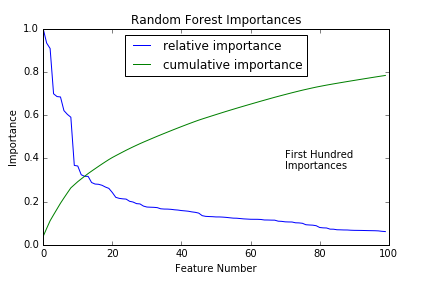
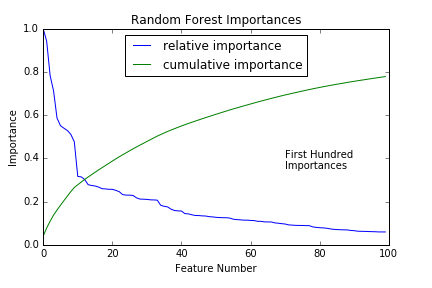
add oob score

diff --git a/read_clean_data.py b/read_clean_data.py
@@ -173,7 +173,9 @@ def rfFitScore(clf, dftrain, dftrain_y, dftest, dftest_y):
     new_y = clfit.predict( dftest )  # returns predicted Y
     
     test_score = clfit.score( dftest, dftest_y['Y'] )
-    print("test score:", test_score, clfit.oob_score_)    
+    print("test score:", test_score)  # clfit.oob_score_  
+    if (clf.oob_score):
+        print("oob score", clfit.oob_score_)
     
     # calculate test score by other means
     print("test predict True %.3f percent, %d out of %d" % \
@@ -201,7 +203,10 @@ def rfFitScore(clf, dftrain, dftrain_y, dftest, dftest_y):
     print("precision", precision, "\nrecall", recall, \
         "\nfbeta", fbeta, "\nsupport", support)
     
-    return test_score, imp
+    if (clf.oob_score):
+        return test_score, imp, clfit.oob_score_
+    else:
+        return test_score, imp
 
 def getImportantColumns(dftraincol, imp):
     '''sort column names by RandomForest importance
@@ -320,98 +325,98 @@ if __name__ == '__main__':
     plotImportances(impcol, plotdir, "v100")
     # sccore 0.9068 0.9099 0.9094
     
-#    print("Validation n=100 auto")  # auto is sqrt for classifier
-#    clf = RandomForestClassifier(n_estimators=100, max_features='auto')
-#    score, imp = rfFitScore(clf, dftrain, dftrain_y, dfvalid, dfvalid_y)
-#    impcol = getImportantColumns(dftrain.columns, imp)
-#    print("n=100 auto fit: top ten important columns:\n", impcol[:10])
-#    plotImportances(impcol, plotdir, "v100auto")
-#    # score 0.9051 0.9112 0.9077 0.9079
-#    
-#    print("Validation n=100 sqrt")  # sqrt(478) = 21.9
-#    clf = RandomForestClassifier(n_estimators=100, max_features='sqrt')
-#    score, imp = rfFitScore(clf, dftrain, dftrain_y, dfvalid, dfvalid_y)
-#    impcol = getImportantColumns(dftrain.columns, imp)
-#    print("n=100 sqrt fit: top ten important columns:\n", impcol[:10])
-#    plotImportances(impcol, plotdir, "v100sqrt")
-#    # score 0.9081 0.9051 0.9143 0.9147
-#    
-#    print("Validation n=100 log2")  # log2(478) = 8.9
-#    clf = RandomForestClassifier(n_estimators=100, max_features='log2')
-#    score, imp = rfFitScore(clf, dftrain, dftrain_y, dfvalid, dfvalid_y)
-#    impcol = getImportantColumns(dftrain.columns, imp)
-#    print("n=100 log2 fit: top ten important columns:\n", impcol[:10])
-#    plotImportances(impcol, plotdir, "v100log")  
-#    # score 0.9265 0.9300 0.9283 0.9278
-#    
-#    print("Validation n=100 9")
-#    clf = RandomForestClassifier(n_estimators=100, max_features=9)
-#    score, imp = rfFitScore(clf, dftrain, dftrain_y, dfvalid, dfvalid_y)
-#    impcol = getImportantColumns(dftrain.columns, imp)
-#    print("n=100 log2 fit: top ten important columns:\n", impcol[:10])
-#    plotImportances(impcol, plotdir, "v100_9")  
-#    # score 0.9274 0.9287 0.9309
-#    
-#    print("Validation n=100 22")
-#    clf = RandomForestClassifier(n_estimators=100, max_features=22)
-#    score, imp = rfFitScore(clf, dftrain, dftrain_y, dfvalid, dfvalid_y)
-#    impcol = getImportantColumns(dftrain.columns, imp)
-#    print("n=100 22 fit: top ten important columns:\n", impcol[:10])
-#    plotImportances(impcol, plotdir, "v100_22")  
-#    # score 0.9121 0.9059 0.9068
-#    
-#    print("Validation n=100 44")
-#    clf = RandomForestClassifier(n_estimators=100, max_features=44)
-#    score, imp = rfFitScore(clf, dftrain, dftrain_y, dfvalid, dfvalid_y)
-#    impcol = getImportantColumns(dftrain.columns, imp)
-#    print("n=100 44 fit: top ten important columns:\n", impcol[:10])
-#    plotImportances(impcol, plotdir, "v100_44")
-#    # score 0.9042 0.9029 0.9051
-#    
-#    print("Validation n=100 100")
-#    clf = RandomForestClassifier(n_estimators=100, max_features=100)
-#    score, imp = rfFitScore(clf, dftrain, dftrain_y, dfvalid, dfvalid_y)
-#    impcol = getImportantColumns(dftrain.columns, imp)
-#    print("n=100 100xx fit: top ten important columns:\n", impcol[:10])
-#    plotImportances(impcol, plotdir, "v100_xx")
-#    # score 0.8941 0.8976
-#    
-#    print("Validation n=100 15")
-#    clf = RandomForestClassifier(n_estimators=100, max_features=15)
-#    score, imp = rfFitScore(clf, dftrain, dftrain_y, dfvalid, dfvalid_y)
-#    impcol = getImportantColumns(dftrain.columns, imp)
-#    print("n=100 15 fit: top ten important columns:\n", impcol[:10])
-#    plotImportances(impcol, plotdir, "v100_15")
-#    # score 0.9164 0.9134
-#    
-#    print("Validation n=100 6")
-#    clf = RandomForestClassifier(n_estimators=100, max_features=6)
-#    score, imp = rfFitScore(clf, dftrain, dftrain_y, dfvalid, dfvalid_y)
-#    impcol = getImportantColumns(dftrain.columns, imp)
-#    print("n=100 6 fit: top ten important columns:\n", impcol[:10])
-#    plotImportances(impcol, plotdir, "v100_6")
-#    # score 0.9326 0.9357
-#    
-#    print("Validation n=50")
-#    clf = RandomForestClassifier(n_estimators=50)
-#    score, imp = rfFitScore(clf, dftrain, dftrain_y, dfvalid, dfvalid_y)
-#    impcol = getImportantColumns(dftrain.columns, imp)
-#    print("n=50 fit: top ten important columns:\n", impcol[:10])
-#    plotImportances(impcol, plotdir, "vb0050")  # score 0.9073
-#    
-#    print("Validation n=200")
-#    clf = RandomForestClassifier(n_estimators=200)
-#    score, imp = rfFitScore(clf, dftrain, dftrain_y, dfvalid, dfvalid_y)
-#    impcol = getImportantColumns(dftrain.columns, imp)
-#    print("n=200 fit: top ten important columns:\n", impcol[:10])
-#    plotImportances(impcol, plotdir, "vb0200")  # score 0.9068
-#    
-#    print("Validation n=500")
-#    clf = RandomForestClassifier(n_estimators=500)
-#    score, imp = rfFitScore(clf, dftrain, dftrain_y, dfvalid, dfvalid_y)
-#    impcol = getImportantColumns(dftrain.columns, imp)
-#    print("n=500 fit: top ten important columns:\n", impcol[:10])
-#    plotImportances(impcol, plotdir, "vb500")  # score 0.9064
+    print("Validation n=100 auto")  # auto is sqrt for classifier
+    clf = RandomForestClassifier(n_estimators=100, max_features='auto')
+    score, imp = rfFitScore(clf, dftrain, dftrain_y, dfvalid, dfvalid_y)
+    impcol = getImportantColumns(dftrain.columns, imp)
+    print("n=100 auto fit: top ten important columns:\n", impcol[:10])
+    plotImportances(impcol, plotdir, "v100auto")
+    # score 0.9051 0.9112 0.9077 0.9079
+    
+    print("Validation n=100 sqrt")  # sqrt(478) = 21.9
+    clf = RandomForestClassifier(n_estimators=100, max_features='sqrt')
+    score, imp = rfFitScore(clf, dftrain, dftrain_y, dfvalid, dfvalid_y)
+    impcol = getImportantColumns(dftrain.columns, imp)
+    print("n=100 sqrt fit: top ten important columns:\n", impcol[:10])
+    plotImportances(impcol, plotdir, "v100sqrt")
+    # score 0.9081 0.9051 0.9143 0.9147
+    
+    print("Validation n=100 log2")  # log2(478) = 8.9
+    clf = RandomForestClassifier(n_estimators=100, max_features='log2')
+    score, imp = rfFitScore(clf, dftrain, dftrain_y, dfvalid, dfvalid_y)
+    impcol = getImportantColumns(dftrain.columns, imp)
+    print("n=100 log2 fit: top ten important columns:\n", impcol[:10])
+    plotImportances(impcol, plotdir, "v100log")  
+    # score 0.9265 0.9300 0.9283 0.9278
+    
+    print("Validation n=100 9")
+    clf = RandomForestClassifier(n_estimators=100, max_features=9)
+    score, imp = rfFitScore(clf, dftrain, dftrain_y, dfvalid, dfvalid_y)
+    impcol = getImportantColumns(dftrain.columns, imp)
+    print("n=100 log2 fit: top ten important columns:\n", impcol[:10])
+    plotImportances(impcol, plotdir, "v100_9")  
+    # score 0.9274 0.9287 0.9309
+    
+    print("Validation n=100 22")
+    clf = RandomForestClassifier(n_estimators=100, max_features=22)
+    score, imp = rfFitScore(clf, dftrain, dftrain_y, dfvalid, dfvalid_y)
+    impcol = getImportantColumns(dftrain.columns, imp)
+    print("n=100 22 fit: top ten important columns:\n", impcol[:10])
+    plotImportances(impcol, plotdir, "v100_22")  
+    # score 0.9121 0.9059 0.9068
+    
+    print("Validation n=100 44")
+    clf = RandomForestClassifier(n_estimators=100, max_features=44)
+    score, imp = rfFitScore(clf, dftrain, dftrain_y, dfvalid, dfvalid_y)
+    impcol = getImportantColumns(dftrain.columns, imp)
+    print("n=100 44 fit: top ten important columns:\n", impcol[:10])
+    plotImportances(impcol, plotdir, "v100_44")
+    # score 0.9042 0.9029 0.9051
+    
+    print("Validation n=100 100")
+    clf = RandomForestClassifier(n_estimators=100, max_features=100)
+    score, imp = rfFitScore(clf, dftrain, dftrain_y, dfvalid, dfvalid_y)
+    impcol = getImportantColumns(dftrain.columns, imp)
+    print("n=100 100xx fit: top ten important columns:\n", impcol[:10])
+    plotImportances(impcol, plotdir, "v100_xx")
+    # score 0.8941 0.8976
+    
+    print("Validation n=100 15")
+    clf = RandomForestClassifier(n_estimators=100, max_features=15)
+    score, imp = rfFitScore(clf, dftrain, dftrain_y, dfvalid, dfvalid_y)
+    impcol = getImportantColumns(dftrain.columns, imp)
+    print("n=100 15 fit: top ten important columns:\n", impcol[:10])
+    plotImportances(impcol, plotdir, "v100_15")
+    # score 0.9164 0.9134
+    
+    print("Validation n=100 6")
+    clf = RandomForestClassifier(n_estimators=100, max_features=6)
+    score, imp = rfFitScore(clf, dftrain, dftrain_y, dfvalid, dfvalid_y)
+    impcol = getImportantColumns(dftrain.columns, imp)
+    print("n=100 6 fit: top ten important columns:\n", impcol[:10])
+    plotImportances(impcol, plotdir, "v100_6")
+    # score 0.9326 0.9357
+    
+    print("Validation n=50")
+    clf = RandomForestClassifier(n_estimators=50)
+    score, imp = rfFitScore(clf, dftrain, dftrain_y, dfvalid, dfvalid_y)
+    impcol = getImportantColumns(dftrain.columns, imp)
+    print("n=50 fit: top ten important columns:\n", impcol[:10])
+    plotImportances(impcol, plotdir, "vb0050")  # score 0.9073
+    
+    print("Validation n=200")
+    clf = RandomForestClassifier(n_estimators=200)
+    score, imp = rfFitScore(clf, dftrain, dftrain_y, dfvalid, dfvalid_y)
+    impcol = getImportantColumns(dftrain.columns, imp)
+    print("n=200 fit: top ten important columns:\n", impcol[:10])
+    plotImportances(impcol, plotdir, "vb0200")  # score 0.9068
+    
+    print("Validation n=500")
+    clf = RandomForestClassifier(n_estimators=500)
+    score, imp = rfFitScore(clf, dftrain, dftrain_y, dfvalid, dfvalid_y)
+    impcol = getImportantColumns(dftrain.columns, imp)
+    print("n=500 fit: top ten important columns:\n", impcol[:10])
+    plotImportances(impcol, plotdir, "vb500")  # score 0.9064
     
 #    print("Validation n=1000")
 #    clf = RandomForestClassifier(n_estimators=1000)
@@ -427,19 +432,24 @@ if __name__ == '__main__':
 #    print("n=2000 fit: top ten important columns:\n", impcol[:10])
 #    plotImportances(impcol, plotdir, "vb2000")  # score 0.9077
     
+    scores = []
+    oobs = []
+    
     for i in list(range(4)):  # average of four
         print("Validation n=100")
         clf = RandomForestClassifier(n_estimators=100, oob_score=True)
-        score, imp = rfFitScore(clf, dftrain, dftrain_y, dfvalid, dfvalid_y)
+        score, imp, oob = rfFitScore(clf, dftrain, dftrain_y, dfvalid, dfvalid_y)
         impcol = getImportantColumns(dftrain.columns, imp)
         print("n=100 fit: top ten important columns:\n", impcol[:10])
         # score 0.9160 0.9143 0.9086 0.9077 => 0.912 +- 0.004
         # score 0.9086 0.9073 0.9103 0.9077 => 0.908 +- 0.001
         # np.mean, np.std
+        scores.append(score)
+        oobs.append(oob)
         
         print("Validation n=200")
         clf = RandomForestClassifier(n_estimators=200, oob_score=True)
-        score, imp = rfFitScore(clf, dftrain, dftrain_y, dfvalid, dfvalid_y)
+        score, imp, oob = rfFitScore(clf, dftrain, dftrain_y, dfvalid, dfvalid_y)
         impcol = getImportantColumns(dftrain.columns, imp)
         print("n=200 fit: top ten important columns:\n", impcol[:10])
         # score 0.9077 0.9073 0.9099 0.9094 => 0.909 +- 0.001
@@ -447,33 +457,49 @@ if __name__ == '__main__':
         
         print("Validation n=500")
         clf = RandomForestClassifier(n_estimators=500, oob_score=True)
-        score, imp = rfFitScore(clf, dftrain, dftrain_y, dfvalid, dfvalid_y)
+        score, imp, oob = rfFitScore(clf, dftrain, dftrain_y, dfvalid, dfvalid_y)
         impcol = getImportantColumns(dftrain.columns, imp)
         print("n=500 fit: top ten important columns:\n", impcol[:10])
         # score 0.9112 0.9094 0.9086 0.9064 => 0.909 +- 0.002
         # score 0.9077 0.9077 0.9081 0.9116 => 0.909 += 0.002
+    
+    print("scores mean, std", np.mean(scores), np.std(scores))
+    print("oobs mean, std", np.mean(oobs), np.std(oobs))
+#    scores mean, std 0.909448818898 0.00127536130683
+#    oobs mean, std 0.980211212002 0.00105725845271
+    
+    scores = []
+    oobs = []
     
     # rather than limited number of columns, optimize other params
     # in validation, then test chosen params with test
     print("Test model fit")
     for i in list(range(4)):  # average of four
         clf = RandomForestClassifier(n_estimators=100, oob_score=True)
-        score, imp = rfFitScore(clf, dftrain, dftrain_y, dftest, dftest_y)
+        score, imp, oob = rfFitScore(clf, dftrain, dftrain_y, dftest, dftest_y)
         print("activity labels:", readActivityLabels())
         impcol = getImportantColumns(dftrain.columns, imp)
         print("Test model fit: top ten important columns:\n", impcol[:10])
         # score 0.9097 0.9155 0.9104 0.9057 => 0.910 +- 0.003
         # score 0.9125 0.9162 0.9131 0.9125 => 0.914 +- 0.002
+        scores.append(score)
+        oobs.append(oob)
 
-# test model, for each class:
-# precision [ 0.82322357  0.88470067  0.96100279  0.88932039  0.93503937  1. ] 
-# recall [ 0.95766129  0.84713376  0.82142857  0.93279022  0.89285714  1. ]
-# precision [ 0.83478261  0.88546256  0.96368715  0.89264414  0.91923077  1. ] 
-# recall [ 0.96774194  0.85350318  0.82142857  0.91446029  0.89849624  1. ] 
-# precision [ 0.82817869  0.89309577  0.95786517  0.90618762  0.92911877  1. ] 
-# recall [ 0.97177419  0.85138004  0.81190476  0.92464358  0.91165414  1.  ] 
-# precision [ 0.81313131  0.91013825  0.95543175  0.89820359  0.92145594  1. ] 
-# recall [ 0.97379032  0.83864119  0.81666667  0.91649695  0.90413534  1. ] 
+    print("scores mean, std", np.mean(scores), np.std(scores))
+    print("oobs mean, std", np.mean(oobs), np.std(oobs))
+#   scores mean, std 0.912114014252 0.00241137943732
+#   oobs mean, std 0.980507303593 0.000564820526168
+
+# test model, for each class 1-6:
+# precision [ 0.84615385  0.89565217  0.96338028  0.88866799  0.91538462  1. ] 
+# recall [ 0.97580645  0.87473461  0.81428571  0.91038697  0.89473684  1. ] 
+# precision [ 0.81494058  0.89390519  0.96338028  0.90361446  0.92190476  1. ] 
+# recall [ 0.96774194  0.84076433  0.81428571  0.91649695  0.90977444  1. ] 
+# precision [ 0.82931034  0.89111111  0.95798319  0.88627451  0.92397661  1. ] 
+# recall [ 0.96975806  0.85138004  0.81428571  0.92057026  0.89097744  1. ] 
+# precision [ 0.81324278  0.89041096  0.95833333  0.89108911  0.92084942  1. ] 
+# recall [ 0.96572581  0.82802548  0.82142857  0.91649695  0.89661654  1. ] 
+
     
 # some thoughts: train, validate, test
 # validate excluded from train, used to select between different models
